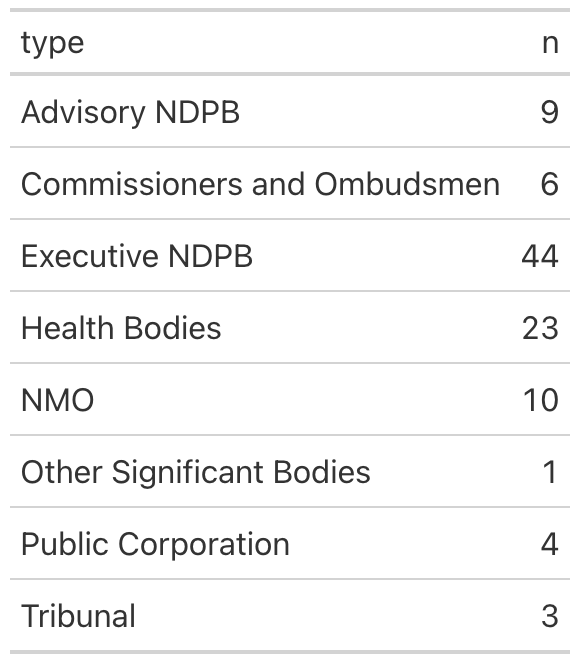
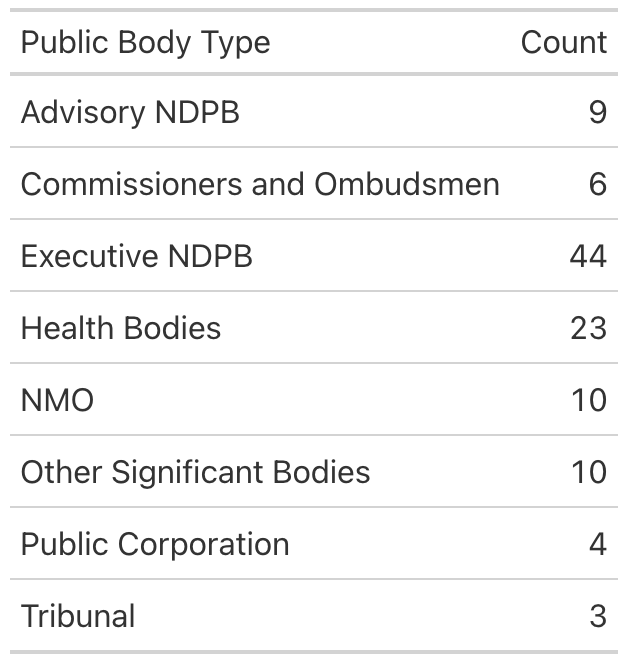
Change tags for Other bodies, more table information

diff --git a/README.md b/README.md
@@ -1,3 +1,9 @@
 # scottish-pb-webscrape
 
-Following a conversation at work, I wanted to learn the very basics of webscraping. To keep it fairly relevant, here I attempt to scrape the names of public bodies from the Scottish Government Public Body directory. 
+Following a conversation at work, I wanted to learn the very basics of webscraping. To keep it fairly relevant, here I attempt to scrape the names of public bodies from the Scottish Government Public Body directory.
+
+Currently, the script just gets the names, and even then, it isn't quite working. I think this is because the subpages with the different types of PBs have slightly different HTML structures, so I need to fine tune it.
+
+The table below summarises the **current** total number of public bodies scraped by their type.
+
+![Count of public bodies by type](pb_count.png)
